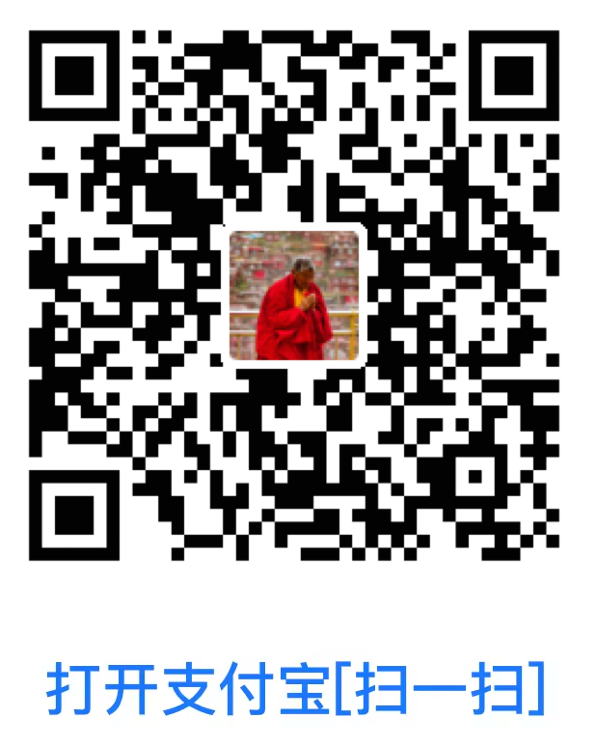
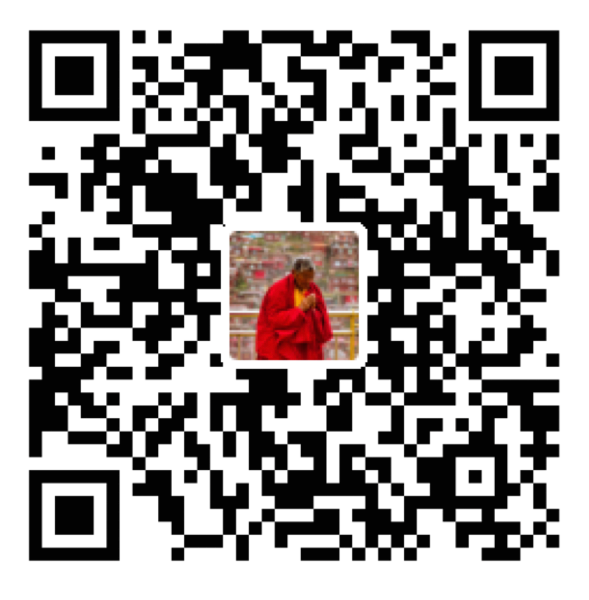
付款方式改为一行三列（小红书/微信/支付宝），支付宝码裁掉自带文字，邮箱改为 it_wisdom@qq.com

diff --git a/PRO.md b/PRO.md
@@ -252,17 +252,18 @@ Task Nexus 现在只有一个 **Pro 版**：全部功能随安装包提供，免
 
 激活步骤：Obsidian → 设置 → TaskNexus → 「激活」→ 填入「🔑 激活码」→ 点「🔓 立即激活」。
 
-#### 💳 扫码付款（微信 / 支付宝）
+#### 💳 三种付款方式，任选其一
 
-不想走小红书也可以直接扫码付款：付款后把**付款截图**和你的邮箱 / 微信号发给我们，核对后当天发放激活码。
+<table>
+<tr>
+<td align="center"><b>📕 小红书</b><br>主页 → 置顶笔记 → 个人售卖<br>按年 9.9 / 一次性 68 元<br><a href="https://www.xiaohongshu.com/user/profile/55878c26c2bdeb61d6dcbb31">前往下单</a></td>
+<td align="center"><b>微信收款码</b><br><img src="screenshots/pay-wechat-qr.png" width="180" alt="微信收款码"><br>微信「扫一扫」</td>
+<td align="center"><b>支付宝收款码</b><br><img src="screenshots/pay-alipay-qr.png" width="180" alt="支付宝收款码"><br>支付宝「扫一扫」</td>
+</tr>
+</table>
 
-| 微信收款码 | 支付宝收款码 |
-| :---: | :---: |
-| <img src="screenshots/pay-wechat-qr.png" width="200" alt="微信收款码"> | <img src="screenshots/pay-alipay-qr.png" width="200" alt="支付宝收款码"> |
-| 微信「扫一扫」· 按年 9.9 / 一次性 68 元 | 支付宝「扫一扫」· 按年 9.9 / 一次性 68 元 |
-
-- 微信发 **ITzhihui_hj**（备注「TaskNexus 激活」）或邮件 **programerni@qq.com** 领取激活码
-- 扫码与小红书下单**价格一致**，任选其一，不必重复付款
+- 付款后把**付款截图**和你的邮箱 / 微信号发给我们：微信 **ITzhihui_hj**（备注「TaskNexus 激活」）或邮件 **it_wisdom@qq.com**
+- 三个渠道**价格一致**，任选其一，核对后当天发放激活码，不必重复付款
 
 ---
 
@@ -526,16 +527,17 @@ Give every project its own storefront — instantly recognizable in the list
 
 Activate: Obsidian → Settings → Task Nexus → Activation → paste your key → “🔓 Activate now”.
 
-#### 💳 Pay by QR (WeChat Pay / Alipay)
+#### 💳 Three ways to pay — pick one
 
-You can also pay by scanning a QR code. Send the **payment screenshot** together with your email address and we issue the licence key the same day.
+<table>
+<tr>
+<td align="center"><b>📕 Xiaohongshu</b><br>Profile → pinned note → in-app sale<br>$19.9 one-time<br><a href="https://www.xiaohongshu.com/user/profile/55878c26c2bdeb61d6dcbb31">Open</a></td>
+<td align="center"><b>WeChat Pay QR</b><br><img src="screenshots/pay-wechat-qr.png" width="180" alt="WeChat Pay QR code"><br>Scan with WeChat</td>
+<td align="center"><b>Alipay QR</b><br><img src="screenshots/pay-alipay-qr.png" width="180" alt="Alipay QR code"><br>Scan with Alipay</td>
+</tr>
+</table>
 
-| WeChat Pay QR | Alipay QR |
-| :---: | :---: |
-| <img src="screenshots/pay-wechat-qr.png" width="200" alt="WeChat Pay QR code"> | <img src="screenshots/pay-alipay-qr.png" width="200" alt="Alipay QR code"> |
-| Scan with WeChat · $19.9 one-time | Scan with Alipay · $19.9 one-time |
-
-- Email the screenshot to **programerni@qq.com** (or WeChat **ITzhihui_hj**) to receive your licence key
+- Send the **payment screenshot** with your email to **it_wisdom@qq.com** (or WeChat **ITzhihui_hj**) and we issue the licence key the same day
 
 ---
 
